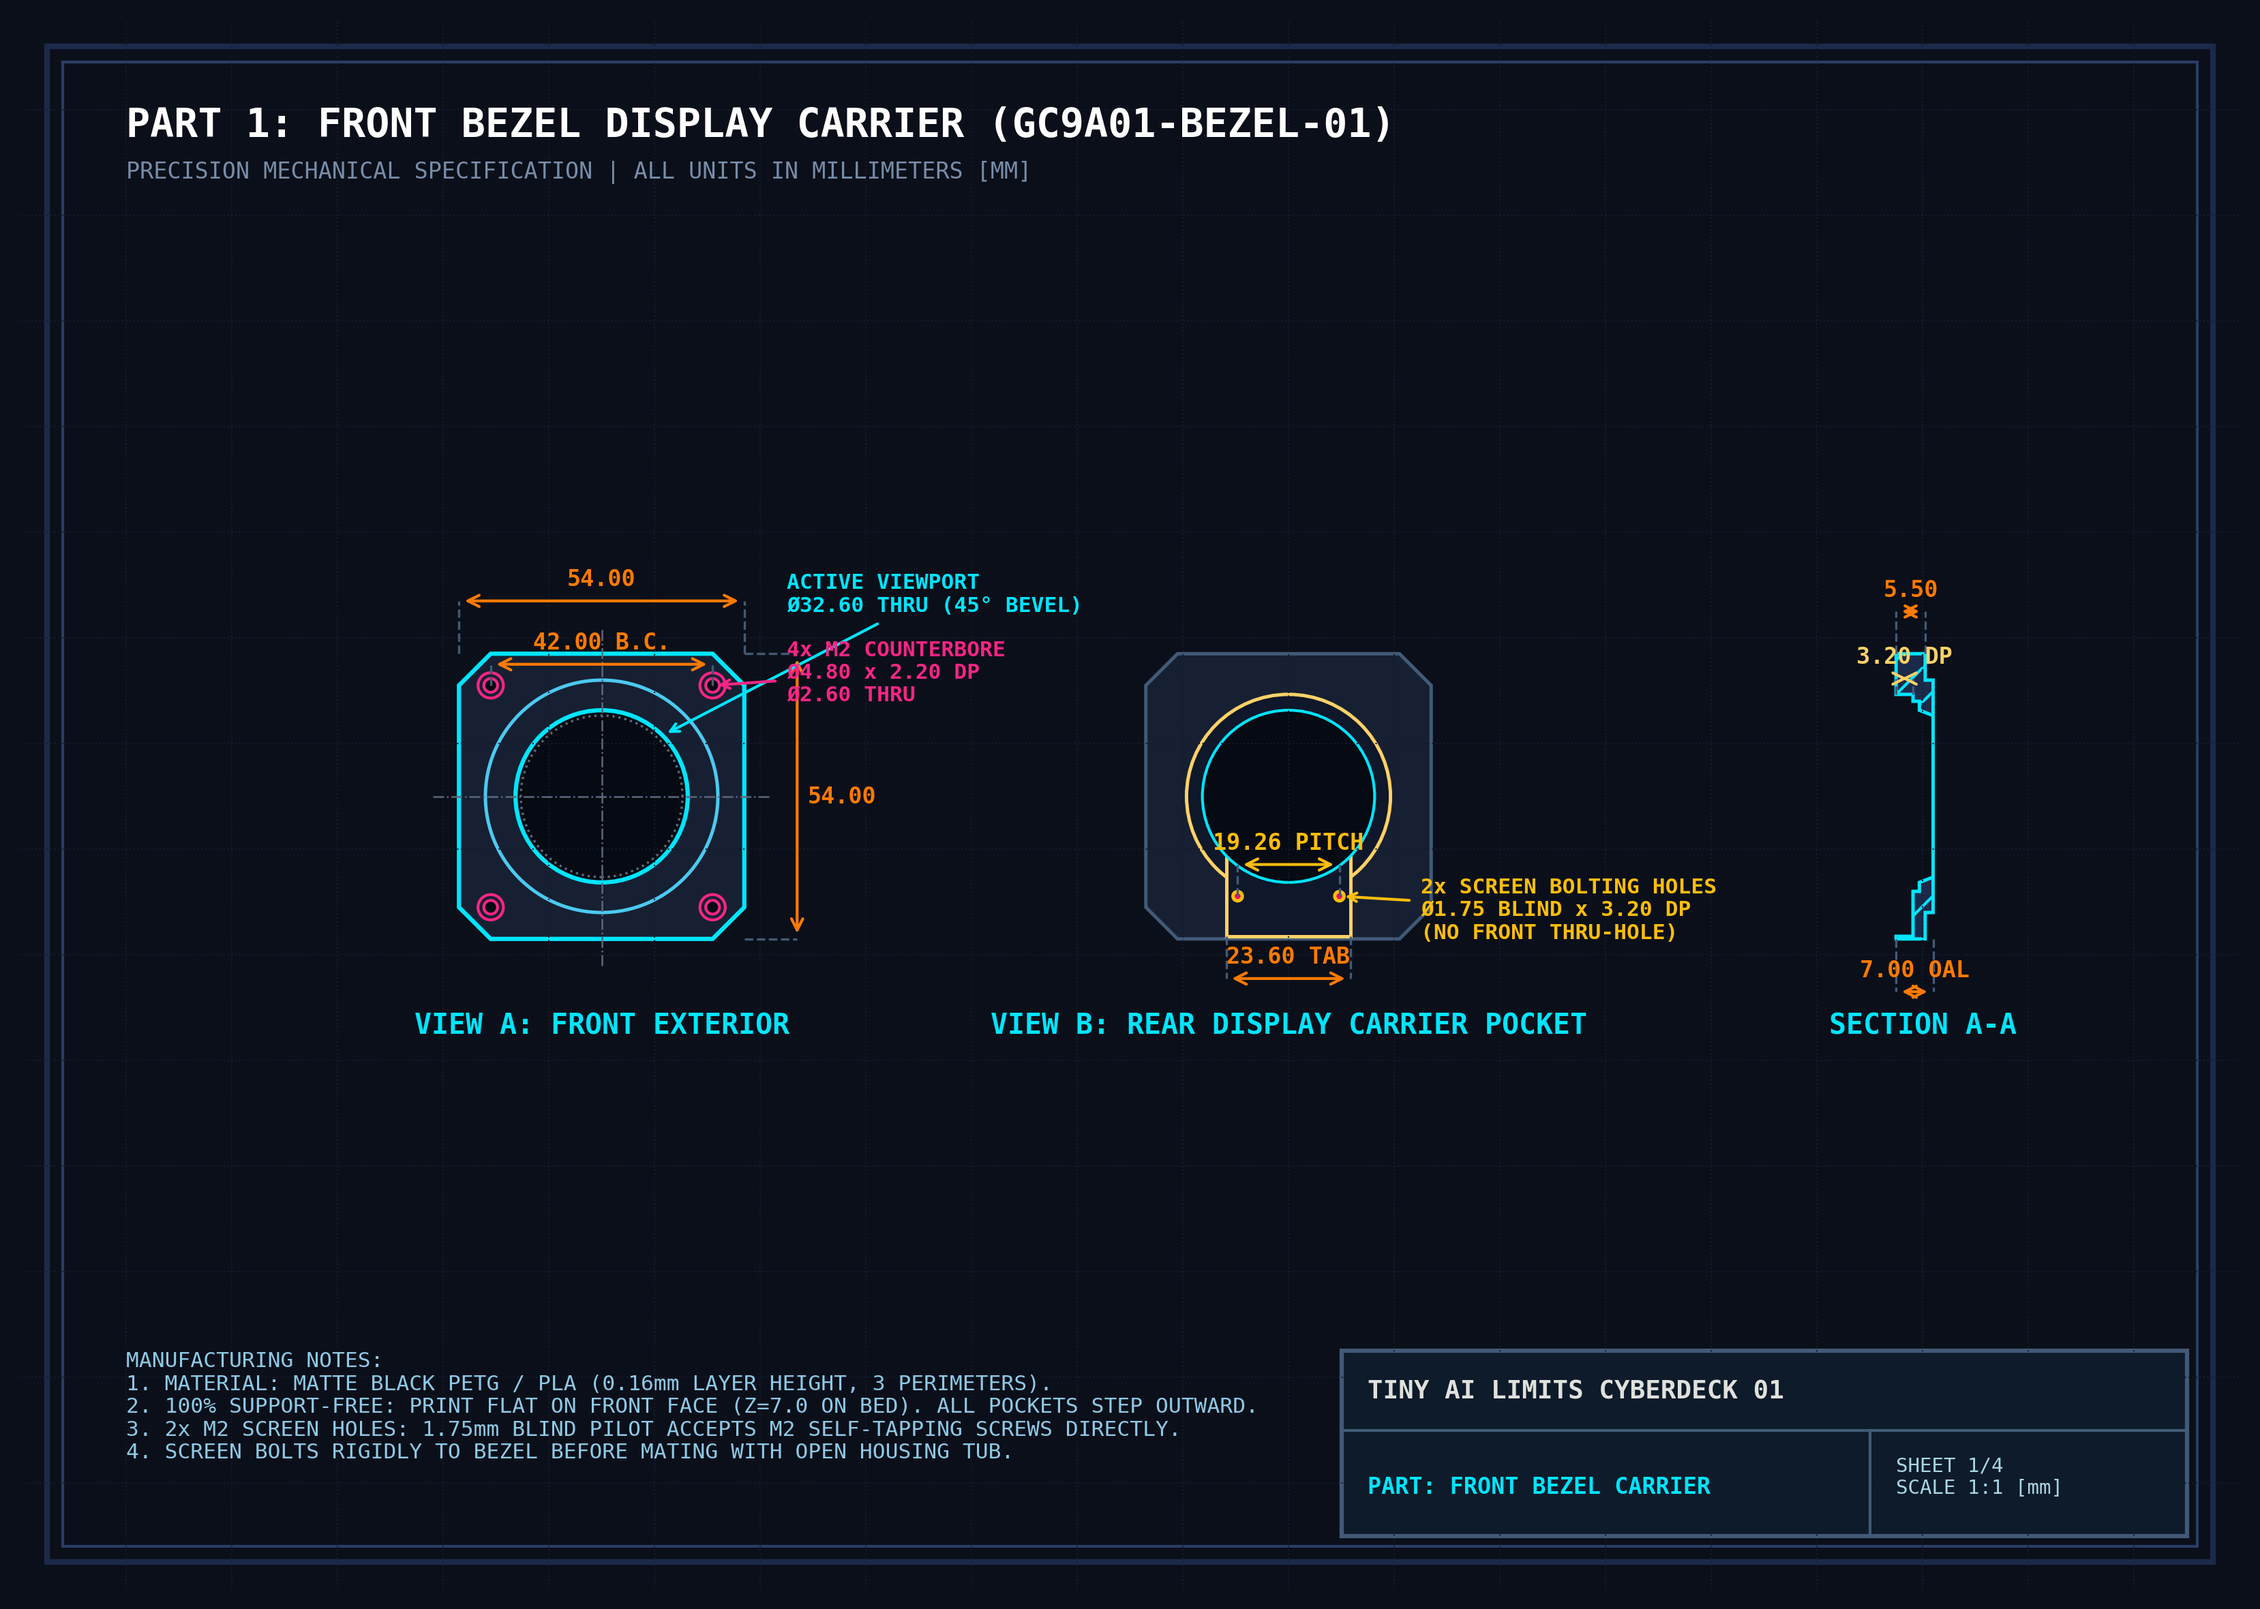
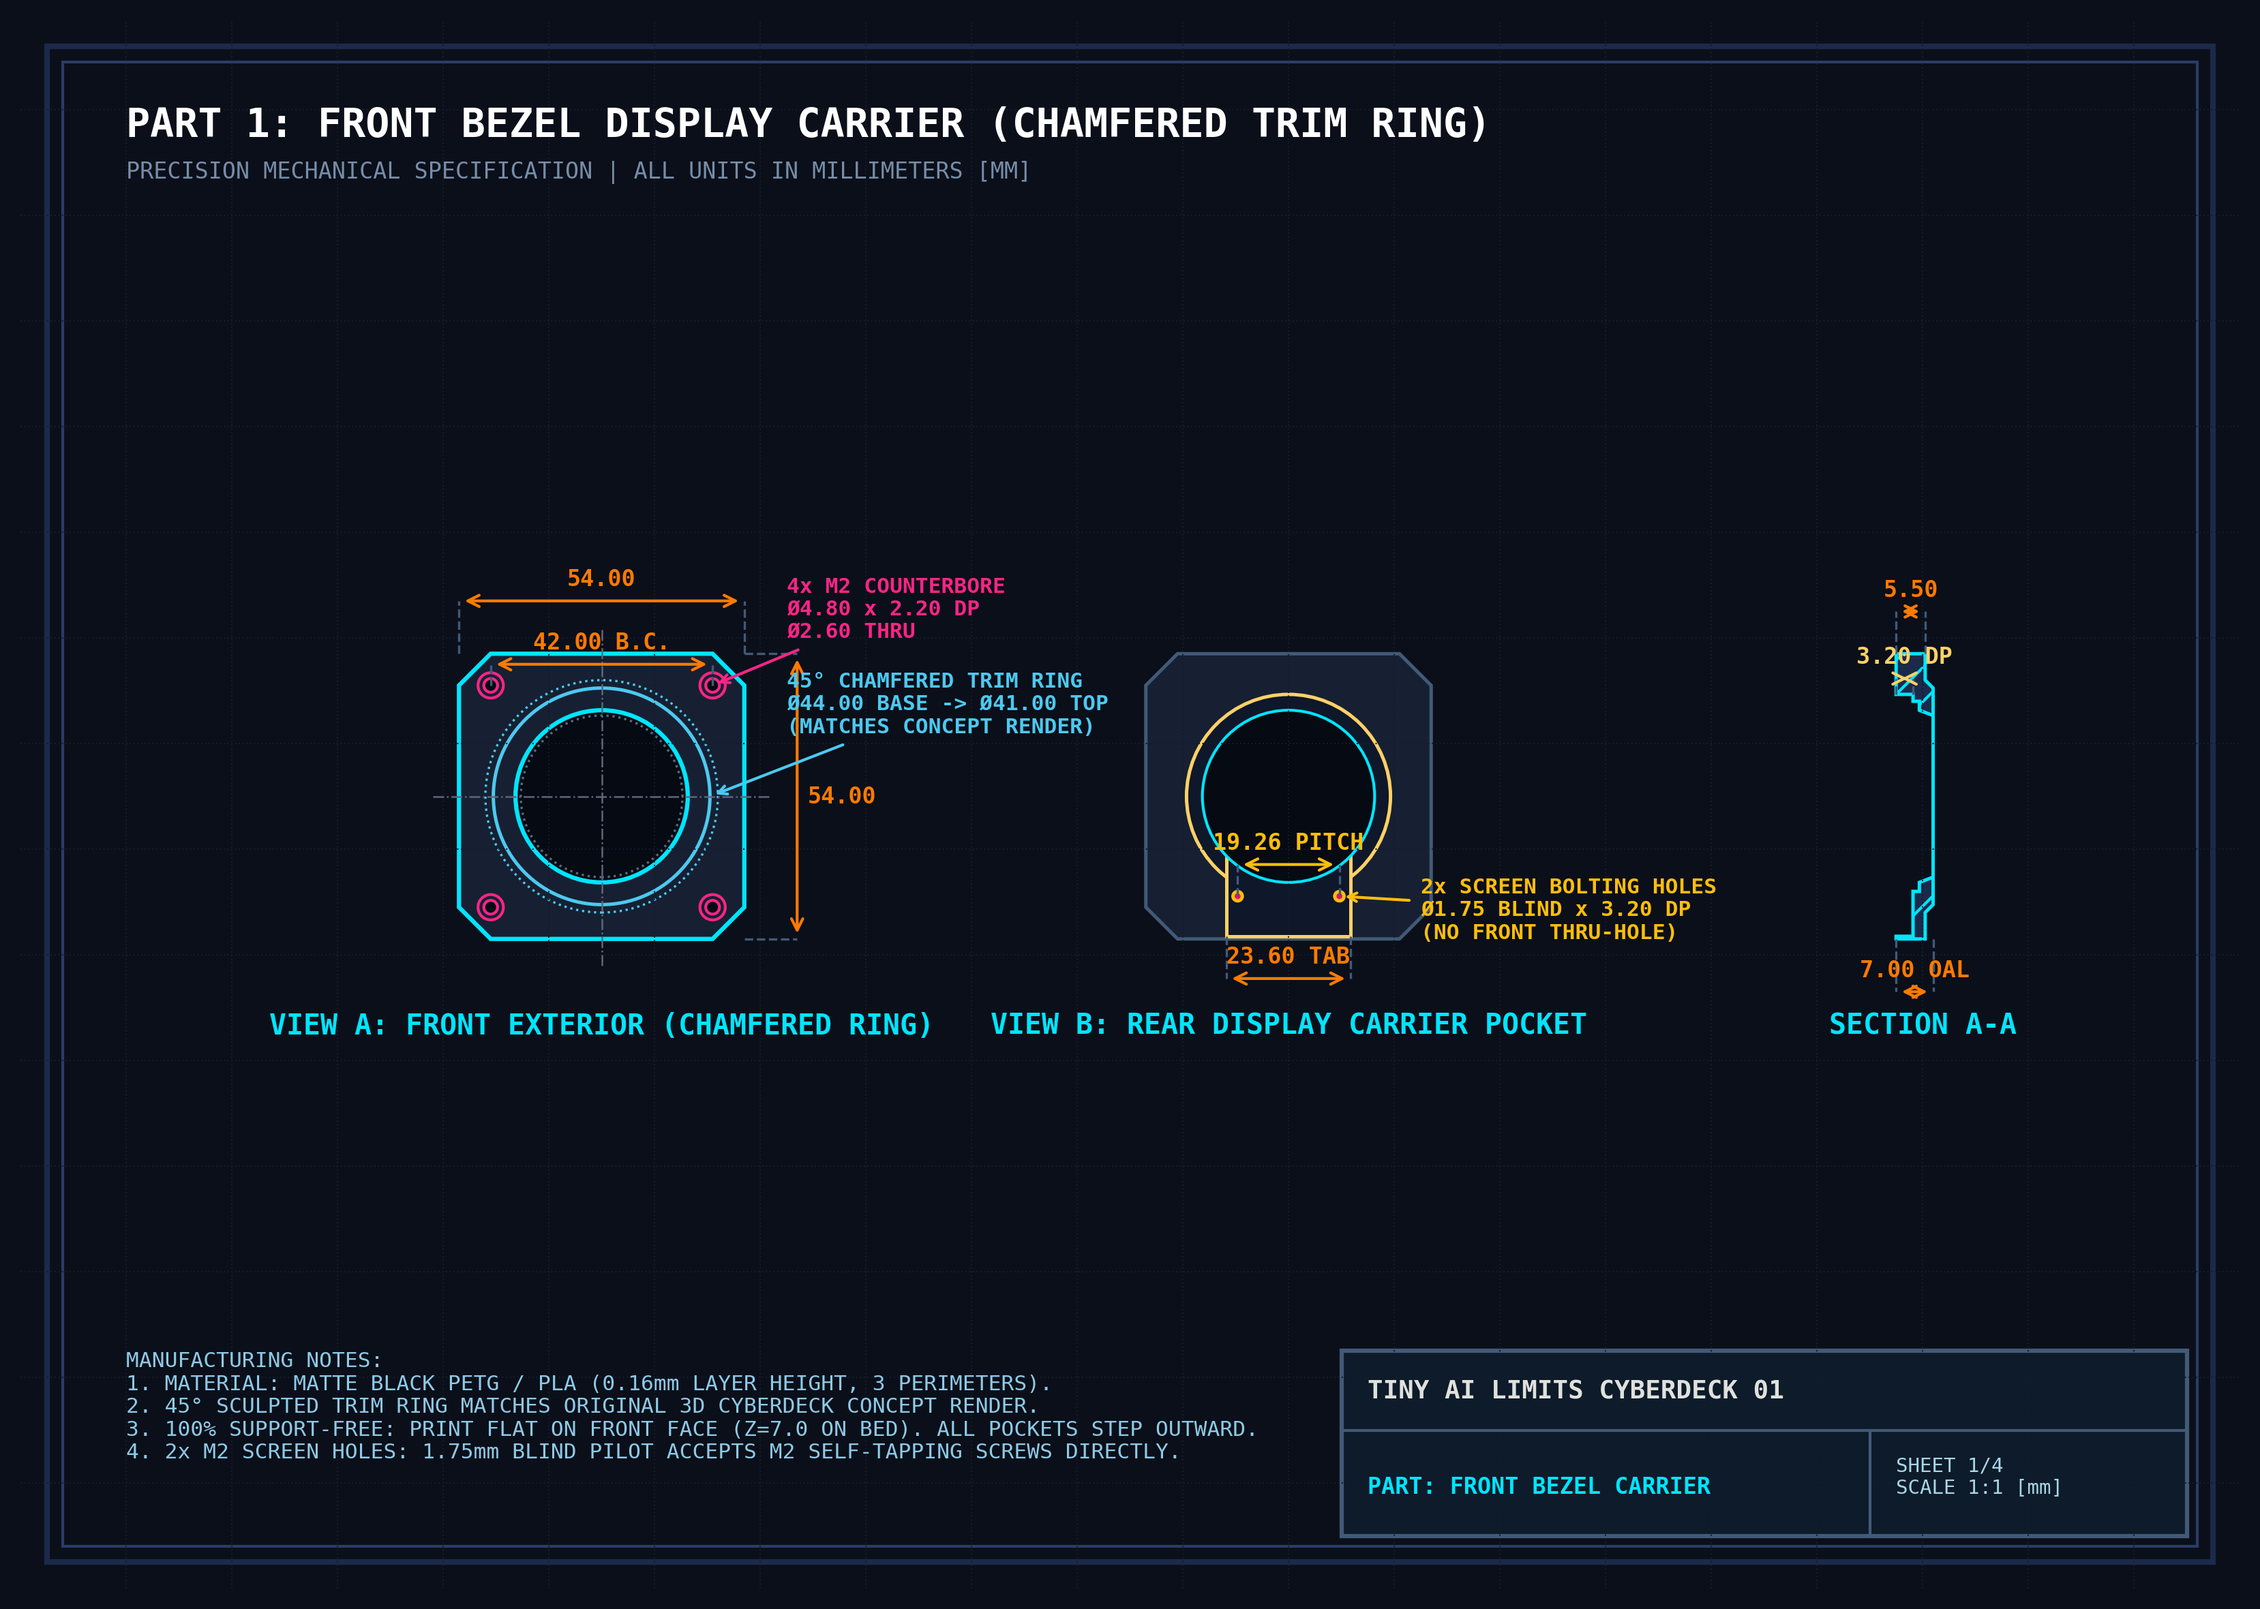
feat(enclosure): add sculpted 45-degree outer chamfer to front bezel trim ring matching concept render

diff --git a/round 240x240/enclosure/generate_technical_drawings.py b/round 240x240/enclosure/generate_technical_drawings.py
@@ -2,7 +2,7 @@
 """
 GC9A01 Cyberdeck Enclosure - Engineering Blueprint & Technical Drawing Generator
 Generates publication-quality 300 DPI dimensioned mechanical engineering drawing sheets
-for 100% Support-Free FDM 3D Printable Architecture.
+for 100% Support-Free FDM 3D Printable Architecture with Chamfered Bezel Trim Ring.
 """
 
 import os
@@ -73,11 +73,11 @@ def add_dim_line(ax, p1, p2, text, offset=6, text_offset=2, is_vertical=False, c
                 va='bottom', ha='center', family='monospace', fontweight='bold')
 
 def generate_sheet_1_front_bezel(output_path):
-    fig, ax = setup_blueprint_canvas(title="PART 1: FRONT BEZEL DISPLAY CARRIER (GC9A01-BEZEL-01)")
+    fig, ax = setup_blueprint_canvas(title="PART 1: FRONT BEZEL DISPLAY CARRIER (CHAMFERED TRIM RING)")
     draw_title_block(ax, "FRONT BEZEL CARRIER", 1)
     
     cx, cy = 110, 150
-    ax.text(cx, cy - 45, "VIEW A: FRONT EXTERIOR", color='#00e5ff', fontsize=10, fontweight='bold', ha='center', family='monospace')
+    ax.text(cx, cy - 45, "VIEW A: FRONT EXTERIOR (CHAMFERED RING)", color='#00e5ff', fontsize=10, fontweight='bold', ha='center', family='monospace')
     
     hw, c = 27.0, 6.0
     oct_pts = np.array([
@@ -87,7 +87,12 @@ def generate_sheet_1_front_bezel(output_path):
         [-hw, hw - c],  [-hw, -hw + c]
     ]) + [cx, cy]
     ax.add_patch(Polygon(oct_pts, fill=True, facecolor='#162032', edgecolor='#00e5ff', linewidth=1.5))
-    ax.add_patch(Circle((cx, cy), 22.0, fill=False, edgecolor='#4cc9f0', linewidth=1.2, linestyle='-'))
+    
+    # 45° Chamfered raised decorative bezel ring (Outer dia 44mm base, 41mm top)
+    ax.add_patch(Circle((cx, cy), 22.0, fill=False, edgecolor='#4cc9f0', linewidth=0.8, linestyle=':'))
+    ax.add_patch(Circle((cx, cy), 20.5, fill=False, edgecolor='#4cc9f0', linewidth=1.2, linestyle='-'))
+    
+    # Active Screen Aperture
     ax.add_patch(Circle((cx, cy), 16.3, fill=True, facecolor='#060a12', edgecolor='#00e5ff', linewidth=1.5))
     ax.add_patch(Circle((cx, cy), 15.3, fill=False, edgecolor='#5c677d', linewidth=0.8, linestyle=':'))
     
@@ -103,11 +108,11 @@ def generate_sheet_1_front_bezel(output_path):
     add_dim_line(ax, (cx + 27, cy - 27), (cx + 27, cy + 27), "54.00", offset=10, is_vertical=True)
     add_dim_line(ax, (cx - 21, cy + 21), (cx + 21, cy + 21), "42.00 B.C.", offset=4)
     
-    ax.annotate("ACTIVE VIEWPORT\nØ32.60 THRU (45° BEVEL)", xy=(cx + 11.5, cy + 11.5), xytext=(cx + 35, cy + 35),
-                arrowprops=dict(arrowstyle='->', color='#00e5ff', lw=1.0),
-                color='#00e5ff', fontsize=7.5, family='monospace', fontweight='bold')
+    ax.annotate("45° CHAMFERED TRIM RING\nØ44.00 BASE -> Ø41.00 TOP\n(MATCHES CONCEPT RENDER)", xy=(cx + 20.5, cy), xytext=(cx + 35, cy + 12),
+                arrowprops=dict(arrowstyle='->', color='#4cc9f0', lw=1.0),
+                color='#4cc9f0', fontsize=7.5, family='monospace', fontweight='bold')
     
-    ax.annotate("4x M2 COUNTERBORE\nØ4.80 x 2.20 DP\nØ2.60 THRU", xy=(cx + 21, cy + 21), xytext=(cx + 35, cy + 18),
+    ax.annotate("4x M2 COUNTERBORE\nØ4.80 x 2.20 DP\nØ2.60 THRU", xy=(cx + 21, cy + 21), xytext=(cx + 35, cy + 30),
                 arrowprops=dict(arrowstyle='->', color='#f72585', lw=1.0),
                 color='#f72585', fontsize=7.5, family='monospace', fontweight='bold')
 
@@ -135,7 +140,7 @@ def generate_sheet_1_front_bezel(output_path):
     
     sec_poly = [
         [sx, sy - 27], [sx + 5.5, sy - 27], [sx + 5.5, sy - 22],
-        [sx + 7.0, sy - 22], [sx + 7.0, sy + 22], [sx + 5.5, sy + 22],
+        [sx + 7.0, sy - 20.5], [sx + 7.0, sy + 20.5], [sx + 5.5, sy + 22],
         [sx + 5.5, sy + 27], [sx, sy + 27],
         [sx, sy + 19.3], [sx + 3.2, sy + 19.3], [sx + 3.2, sy + 18.0],
         [sx + 4.4, sy + 18.0], [sx + 4.4, sy + 16.3], [sx + 7.0, sy + 15.3],
@@ -148,7 +153,7 @@ def generate_sheet_1_front_bezel(output_path):
     add_dim_line(ax, (sx, sy - 27), (sx + 7.0, sy - 27), "7.00 OAL", offset=-10)
     add_dim_line(ax, (sx, sy + 19.3), (sx + 3.2, sy + 19.3), "3.20 DP", offset=3, color='#ffd166')
     
-    ax.text(20, 45, "MANUFACTURING NOTES:\n1. MATERIAL: MATTE BLACK PETG / PLA (0.16mm LAYER HEIGHT, 3 PERIMETERS).\n2. 100% SUPPORT-FREE: PRINT FLAT ON FRONT FACE (Z=7.0 ON BED). ALL POCKETS STEP OUTWARD.\n3. 2x M2 SCREEN HOLES: 1.75mm BLIND PILOT ACCEPTS M2 SELF-TAPPING SCREWS DIRECTLY.\n4. SCREEN BOLTS RIGIDLY TO BEZEL BEFORE MATING WITH OPEN HOUSING TUB.",
+    ax.text(20, 45, "MANUFACTURING NOTES:\n1. MATERIAL: MATTE BLACK PETG / PLA (0.16mm LAYER HEIGHT, 3 PERIMETERS).\n2. 45° SCULPTED TRIM RING MATCHES ORIGINAL 3D CYBERDECK CONCEPT RENDER.\n3. 100% SUPPORT-FREE: PRINT FLAT ON FRONT FACE (Z=7.0 ON BED). ALL POCKETS STEP OUTWARD.\n4. 2x M2 SCREEN HOLES: 1.75mm BLIND PILOT ACCEPTS M2 SELF-TAPPING SCREWS DIRECTLY.",
             color='#8ecae6', fontsize=7.5, family='monospace', va='top')
             
     fig.savefig(output_path, bbox_inches='tight', dpi=300)
@@ -327,7 +332,7 @@ def generate_sheet_4_full_assembly(output_path):
 +----+------------------------------------+-----+-------------------------------------------------------------+
 | ID | COMPONENT / PART NAME              | QTY | SPECIFICATION & PURPOSE                                     |
 +----+------------------------------------+-----+-------------------------------------------------------------+
-| 01 | Front Bezel Display Carrier Plate  |  1  | 3D Print (Matte Black PETG) | Ø32.6mm Viewport & PCB Pocket |
+| 01 | Front Bezel Display Carrier Plate  |  1  | 3D Print (Matte Black PETG) | 45° Chamfered Trim Ring       |
 | 02 | GC9A01 1.28" Round IPS Module      |  1  | 240x240 Circular Display with 7-Pin SPI Header Bottom Tab  |
 | 03 | Main Housing Pod (Open Tub Bucket) |  1  | 3D Print | 4 Solid Corner Pillars & 4x M2 Pilot Holes       |
 | 04 | ESP32-C3 SuperMini MCU Board       |  1  | Pin Headers facing UP | Solder pins lock into standoffs     |

diff --git a/round 240x240/enclosure/generate_stl.py b/round 240x240/enclosure/generate_stl.py
@@ -4,7 +4,7 @@ GC9A01 1.28" Round Display & ESP32-C3 SuperMini Cyberdeck Enclosure
 Professional 3D Printable STL Generator (Boolean CSG & Watertight Manifold Engine)
 
 100% Support-Free FDM 3D Printable Architecture (Solution A):
-- Front Bezel: Precision display carrier with integrated screen pocket & 2 x M2 blind pilot holes
+- Front Bezel: Precision display carrier with sculpted 45° chamfered trim ring matching concept render
 - Main Housing: Open-tub electronics bucket with 4 massive solid corner pillars and 4 open M2 pilot holes (dia = 2.0mm x 14mm deep at +/-21mm)
 - 100% solid enclosed outer bottom wall (seamless desktop pod aesthetic)
 - ESP32-C3 SuperMini pin-locking standoffs (2.54mm pitch) & rear thrust stop
@@ -70,16 +70,18 @@ def generate_front_bezel():
     w = 54.0
     c = 6.0
     t = 5.5 # Enhanced display carrier thickness
+    ring_h = 1.5
     
     # 1. Base octagonal plate (z = 0 to 5.5)
     base = make_octagonal_prism(w, t, c)
     
-    # 2. Raised circular decorative trim ring (z = 5.5 to 7.0)
-    ring = m3d.Manifold.cylinder(1.5, 22.0, 22.0, 64).translate([0, 0, t])
-    bezel_solid = base + ring
+    # 2. Raised circular decorative trim ring with 45-deg outer chamfer matching concept render:
+    # Tapers from dia 44.0mm (r = 22.0mm) at z = 5.5 to dia 41.0mm (r = 20.5mm) at z = 7.0mm
+    ring_chamfered = m3d.Manifold.cylinder(ring_h, 22.0, 20.5, 64).translate([0, 0, t])
+    bezel_solid = base + ring_chamfered
     
-    # 3. Center Screen Active View Window (32.6mm dia aperture for 32.40mm LCD A.A)
-    window_chamfer = m3d.Manifold.cylinder(t + 3.0, 16.3 + 1.0, 16.3, 64).translate([0, 0, -1.0])
+    # 3. Center Screen Active View Window (32.6mm dia aperture with 45-deg inner chamfer)
+    window_chamfer = m3d.Manifold.cylinder(t + ring_h + 3.0, 16.3 + 1.2, 16.3, 64).translate([0, 0, -1.0])
     
     # 4. Glass Step Pocket: 36.0mm dia x 1.6mm deep (fits 35.6mm BL glass lens)
     glass_recess = m3d.Manifold.cylinder(1.7, 36.0 / 2.0, 36.0 / 2.0, 64).translate([0, 0, -0.1])
@@ -94,7 +96,7 @@ def generate_front_bezel():
     for sx in [-screw_dist, screw_dist]:
         for sy in [-screw_dist, screw_dist]:
             hole = m3d.Manifold.cylinder(t + 4.0, 1.3, 1.3, 32).translate([sx, sy, -1.0])
-            cb = m3d.Manifold.cylinder(3.0, 2.4, 2.4, 32).translate([sx, sy, t + 1.5 - 2.2])
+            cb = m3d.Manifold.cylinder(3.0, 2.4, 2.4, 32).translate([sx, sy, t + ring_h - 2.2])
             cuts = cuts + hole + cb
             
     # 7. 2 Blind M2 Thread-Gripping Pilot Holes (dia = 1.75mm, depth = 3.2mm from rear)
@@ -119,7 +121,7 @@ def generate_main_housing():
     chassis = make_octagonal_prism(w, depth, c)
     
     # 2. Main Internal Chamfered Cavity (width = 46.0mm, corner chamfer = 11.5mm)
-    # This leaves 10mm of solid structural plastic around (X = +/-21, Y = +/-21) for massive corner screw pillars!
+    # Leaves 10mm of solid structural plastic around (X = +/-21, Y = +/-21) for massive corner screw pillars!
     cw = 46.0
     cc = 11.5
     hcw = cw / 2.0
@@ -235,10 +237,10 @@ def main():
 
     print("Generating 100% Support-Free FDM 3D Printable STL Enclosure Models...\n")
     
-    # 1. Front Bezel Plate (Display Carrier)
+    # 1. Front Bezel Plate (Display Carrier with Chamfered Trim Ring)
     bezel = generate_front_bezel()
     bezel_path = os.path.join(output_dir, "gc9a01_front_bezel.stl")
-    export_stl(bezel, bezel_path, "Front Bezel Plate (Display Carrier)")
+    export_stl(bezel, bezel_path, "Front Bezel Plate (Chamfered Trim Ring)")
 
     # 2. Main Housing Enclosure (Open Tub with verified Corner Screw Pillars and Holes)
     housing = generate_main_housing()
@@ -255,7 +257,7 @@ def main():
     accent_base_path = os.path.join(output_dir, "gc9a01_stand_accent_base.stl")
     export_stl(accent_base, accent_base_path, "Accent Base Plate (Optional)")
 
-    print("\n[ALL MODELS COMPLETE] All 4 STL files are 100% watertight, manifold, and verified with 4 corner pillars & holes!")
+    print("\n[ALL MODELS COMPLETE] All 4 STL files are 100% watertight, manifold, and verified with chamfered bezel ring!")
 
 if __name__ == "__main__":
     main()
